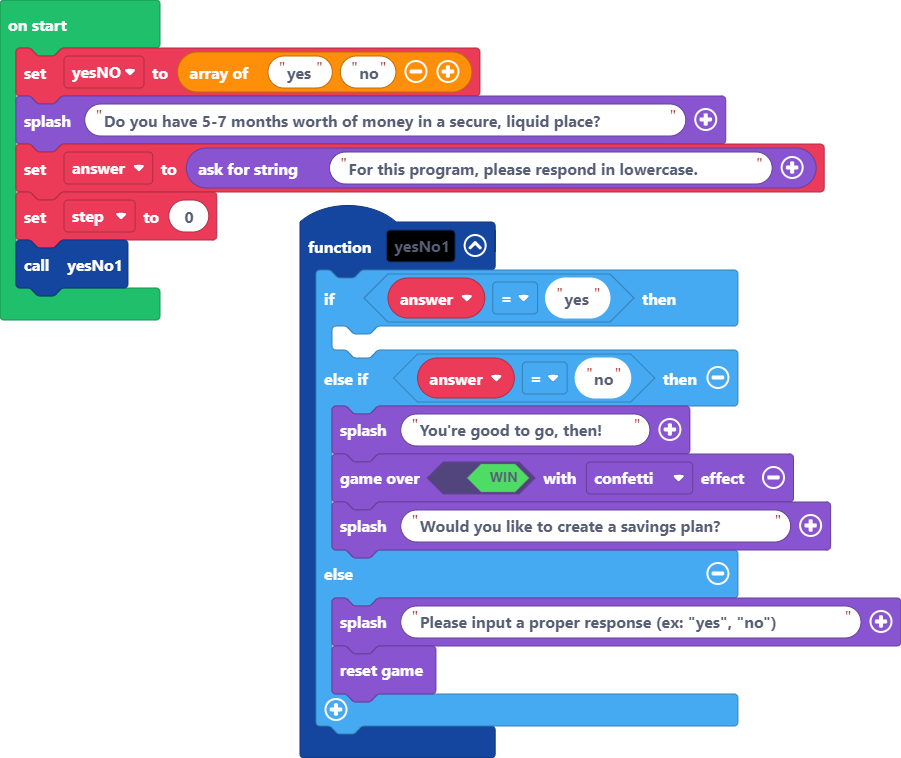
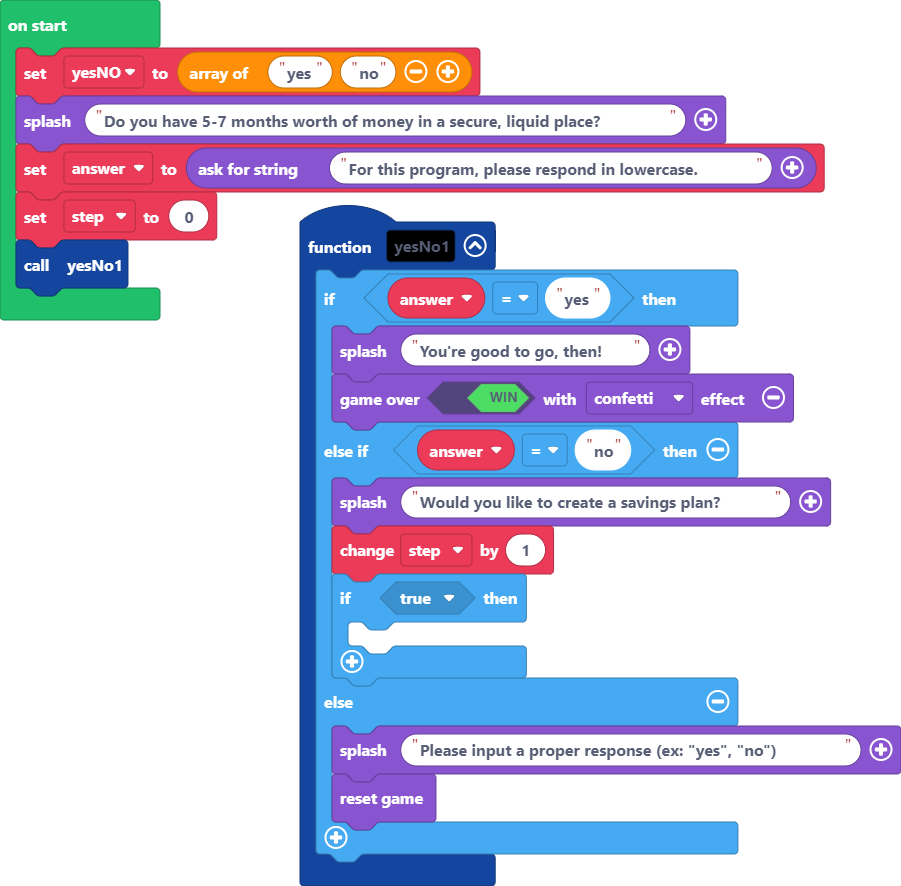
Update main.blocks, main.ts

diff --git a/main.ts b/main.ts
@@ -1,10 +1,13 @@
 function yesNo1 () {
     if (answer == "yes") {
-    	
-    } else if (answer == "no") {
         game.splash("You're good to go, then!")
         game.over(true, effects.confetti)
+    } else if (answer == "no") {
         game.splash("Would you like to create a savings plan?")
+        step += 1
+        if (true) {
+        	
+        }
     } else {
         game.splash("Please input a proper response (ex: \"yes\", \"no\")")
         game.reset()
